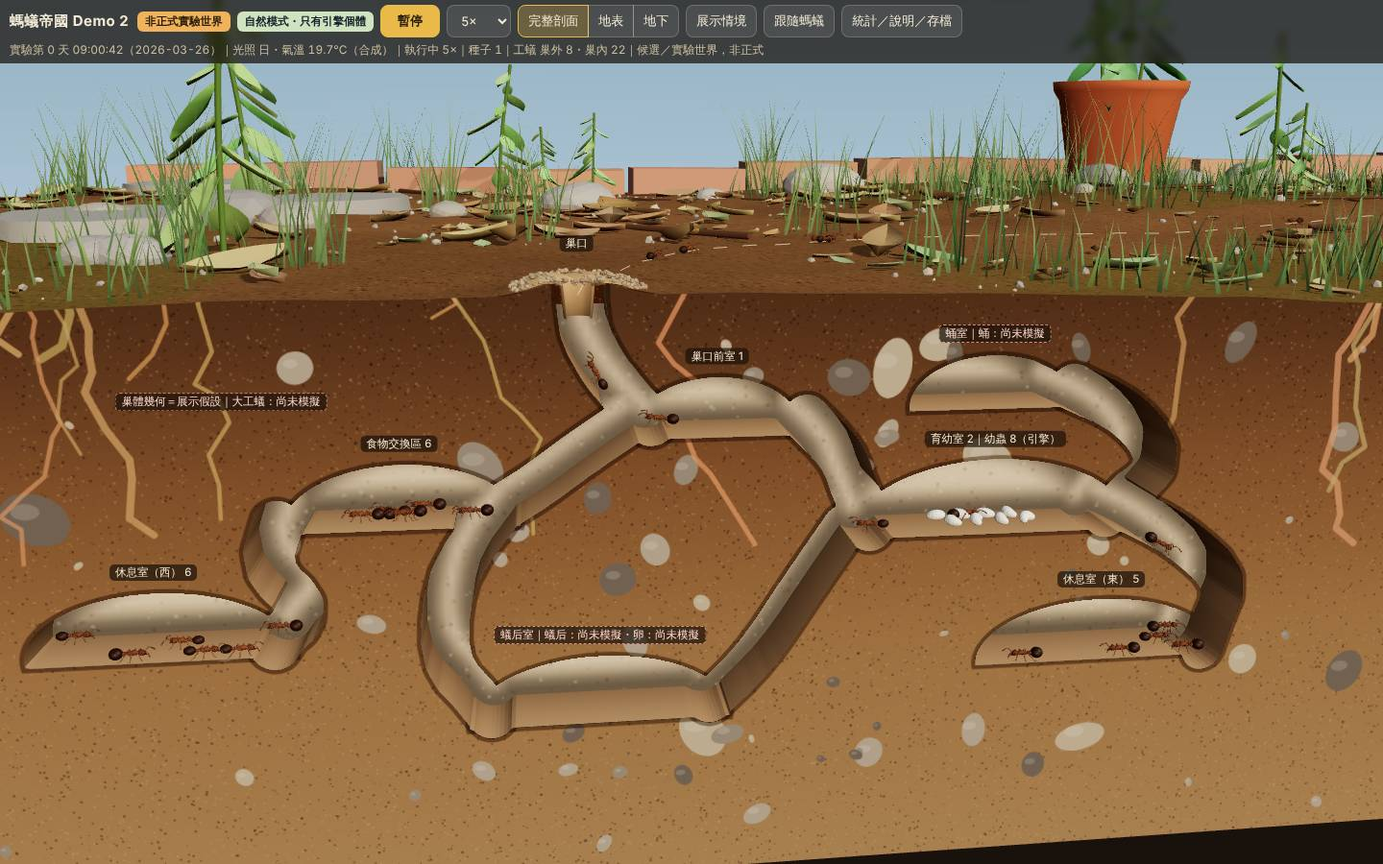
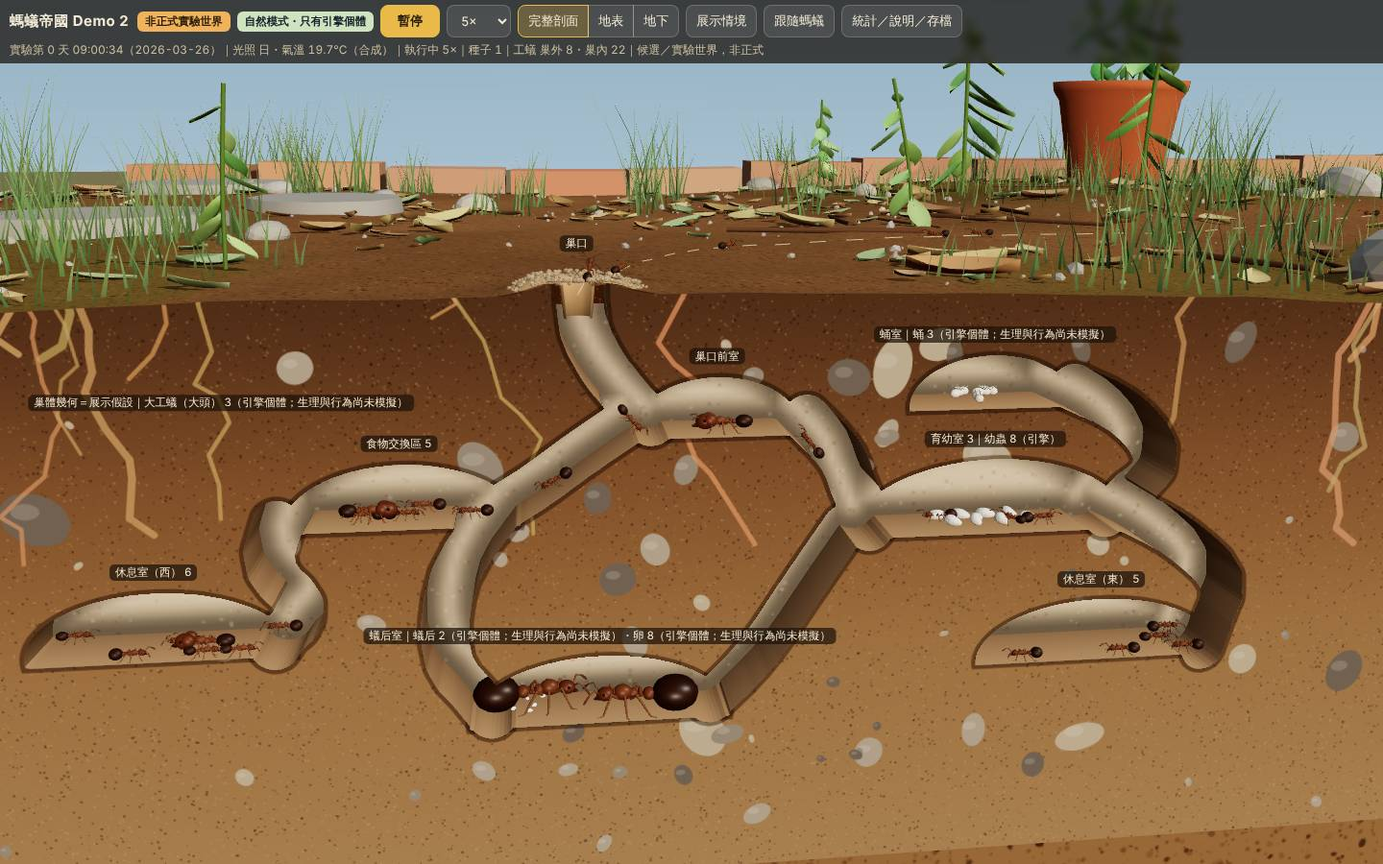
Demo 2: candidate colony world by default (engine queens / majors / eggs / pupae), portrait framing, soil wall
- new Demo worlds are 'p0a2-colony' through the real Worker (protocol guard isP0a2ColonyFrame); ?world=p0a2 keeps the
  plain world; saved colony worlds list and re-open
- engine colony individuals: static in their chamber (展示假設 position), selectable; the card lists each one's own
  not_simulated items and the candidate / assumed-count label; chamber labels say 引擎個體；生理與行為尚未模擬
- 展示情境 adds only what the engine lacks (no duplicate queens / majors)
- portrait: 完整剖面 / 地下 fit the whole nest; the soil wall continues below and beside the block (no empty void);
  labels wrap and stay on screen
- browser check: engine-queen selection, framing, ?world=p0a2 path, colony save / reload; screenshots regenerated

Claude-Session: https://claude.ai/code/session_01FN3JKHwWzwCMErcRAJv7Ef

diff --git a/web/src/demo2/main.ts b/web/src/demo2/main.ts
@@ -69,15 +69,10 @@ const sunTarget = new THREE.Object3D(); sunTarget.position.set(60, 0, -50);
 
 // ---------- world / display state ----------
 const client = new ExperimentWorkerClient();
-/** the opt-in candidate world with queens / majors / eggs / pupae as engine individuals (PR #263). Used when this
- *  Worker build knows it (feature check below), else the plain P0-A2 world. `?world=p0a2` forces the plain world. */
-const COLONY_KIND = 'p0a2-colony' as WorldKind;
-let worldKind: WorldKind = 'p0a2';
+/** New Demo worlds are the candidate world 'p0a2-colony' (queens / majors / eggs / pupae as ENGINE individuals, static;
+ *  docs/colony-candidate-world.md). `?world=p0a2` starts the plain P0-A2 world (those castes then 尚未模擬 / demo). */
+const worldKind: WorldKind = q.get('world') === 'p0a2' ? 'p0a2' : 'p0a2-colony';
 const PROBE_ID = 'exp-runtime-probe';
-async function detectWorldKind(): Promise<void> {
-  if (q.get('world') === 'p0a2') return;
-  try { const r = await client.init(PROBE_ID, 0, COLONY_KIND); if (r.type !== 'error') worldKind = COLONY_KIND; } catch { /* the plain world stays */ }
-}
 const isDemoWorld = (engine_version: string) => engine_version.startsWith('experiment-p0a2-');
 let session: ExperimentSession | null = null, tempMode = q.has('seed');
 let frame: P0a2FrameMsg | null = null, pacing: PacingMsg | null = null, frameAt = 0, lastT: number | null = null, tNow = 0, followedView: unknown = null;
@@ -140,7 +135,7 @@ function skyTint(bg: number) {
   if (bg === skyNow) return; skyNow = bg;
   if (!skyCanvas) { skyCanvas = document.createElement('canvas'); skyCanvas.width = 4; skyCanvas.height = 256; skyTex = new THREE.CanvasTexture(skyCanvas); skyTex.colorSpace = THREE.SRGBColorSpace; scene.background = skyTex; }
   const g2 = skyCanvas.getContext('2d')!, c = new THREE.Color(bg), hex = (k: THREE.Color) => `#${k.getHexString()}`, gr = g2.createLinearGradient(0, 0, 0, 256);
-  gr.addColorStop(0, hex(c.clone().multiplyScalar(0.86))); gr.addColorStop(0.42, hex(c.clone().lerp(new THREE.Color(0xffffff), 0.25))); gr.addColorStop(0.6, hex(c.clone().lerp(new THREE.Color(0x3a322a), 0.75))); gr.addColorStop(1, '#241e18');
+  gr.addColorStop(0, hex(c.clone().multiplyScalar(0.86))); gr.addColorStop(0.42, hex(c.clone().lerp(new THREE.Color(0xffffff), 0.25))); gr.addColorStop(0.6, hex(c.clone().lerp(new THREE.Color(0x7d7a58), 0.7))); gr.addColorStop(1, hex(c.clone().lerp(new THREE.Color(0x5f5a40), 0.85)));
   g2.fillStyle = gr; g2.fillRect(0, 0, 4, 256); skyTex.needsUpdate = true;
 }
 function applyQuality(qn: Quality) {
@@ -156,9 +151,12 @@ interface Cam { pos: THREE.Vector3; tgt: THREE.Vector3 }
 function viewCam(v: View): Cam {
   const aspect = innerWidth / Math.max(1, innerHeight), hfov = 2 * Math.atan(Math.tan((camera.fov * Math.PI) / 360) * aspect), fit = (halfW: number) => halfW / Math.tan(hfov / 2);
   const mk = (tx: number, ty: number, tz: number, el: number, az: number, dist: number): Cam => { const e = (el * Math.PI) / 180, a = (az * Math.PI) / 180; return { tgt: new THREE.Vector3(tx, ty, tz), pos: new THREE.Vector3(tx + Math.sin(a) * Math.cos(e) * dist, ty + Math.sin(e) * dist, tz + Math.cos(a) * Math.cos(e) * dist) }; };
-  if (v === 'surface') return narrow() ? mk(22, 0, -14, 50, -10, Math.min(260, fit(30))) : mk(48, 0, -26, 46, -12, Math.min(260, fit(84)));
-  if (v === 'under') return narrow() ? mk(5, -19, 0, 4, 0, Math.min(230, fit(24))) : mk(5, -17, 0, 3, 0, Math.min(260, fit(47)));
-  return narrow() ? mk(5, -15, 0, 12, -4, Math.min(240, fit(26))) : mk(8, -10, 0, 14, -7, Math.min(260, fit(50)));
+  // portrait: 完整剖面 and 地下 fit the whole nest (its bounds from the layout) into the width; the soil wall extends
+  // far below and beside the block (scene.ts), so no empty void shows under it
+  const nb = graph.bounds(0), cx = (nb.x0 + nb.x1) / 2, half = (nb.x1 - nb.x0) / 2 + 1, tall = aspect < 1, vh = (d: number) => d * Math.tan((camera.fov * Math.PI) / 360);
+  if (v === 'surface') return tall ? mk(22, 0, -14, 50, -10, Math.min(300, fit(34))) : mk(48, 0, -26, 46, -12, Math.min(260, fit(84)));
+  if (v === 'under') { const d = Math.min(640, fit(tall ? half : 47)); return tall ? mk(cx, -16 + vh(d) * 0.06, 0, 3, 0, d) : mk(5, -17, 0, 3, 0, d); }
+  { const d = Math.min(640, fit(tall ? half : 50)); return tall ? mk(cx, -14 + vh(d) * 0.26, 0, 12, -3, d) : mk(8, -10, 0, 14, -7, d); }
 }
 let tween: { from: Cam; to: Cam; t: number; dur: number } | null = null, userBusy = false, followAdjust = 0;
 function goView(v: View, instant = false) {
@@ -190,7 +188,7 @@ function stepCamera(dt: number) {
     }
   }
   // keep the view on the block
-  controls.target.x = Math.max(BLOCK.x0, Math.min(BLOCK.x1, controls.target.x)); controls.target.z = Math.max(BLOCK.z0, Math.min(BLOCK.z1 + 2, controls.target.z)); controls.target.y = Math.max(BLOCK.bottom, Math.min(40, controls.target.y));
+  controls.target.x = Math.max(BLOCK.x0, Math.min(BLOCK.x1, controls.target.x)); controls.target.z = Math.max(BLOCK.z0, Math.min(BLOCK.z1 + 2, controls.target.z)); controls.target.y = Math.max(BLOCK.bottom - 120, Math.min(40, controls.target.y));
   controls.update();
 }
 let followRealm: 'surface' | 'nest' | null = null;
@@ -305,7 +303,9 @@ function updateLabels() {
   if (!frame || !rost || !world) return;
   const w = ui.canvas.clientWidth, h = ui.canvas.clientHeight, items: { key: string; p: P3; text: string; cls: string; face: boolean }[] = [];
   const ns = (c: 'queen' | 'major' | 'egg' | 'pupa') => rost!.missing.includes(c), n = (c: 'queen' | 'major' | 'egg' | 'pupa') => rost!.counts[c];
-  const part = (c: 'queen' | 'egg' | 'pupa') => ns(c) ? (mode === 'demo' ? `${CASTE_LABEL[c]} ${n(c).demo}（示範資料）` : `${CASTE_LABEL[c]}：尚未模擬`) : `${CASTE_LABEL[c]} ${n(c).engine}（引擎）`;
+  // an engine individual of the candidate world exists in the engine, but its physiology / behaviour is 尚未模擬
+  const eng = (c: 'queen' | 'major' | 'egg' | 'pupa') => `${CASTE_LABEL[c]} ${n(c).engine}（引擎個體；生理與行為尚未模擬）`;
+  const part = (c: 'queen' | 'egg' | 'pupa') => ns(c) ? (mode === 'demo' ? `${CASTE_LABEL[c]} ${n(c).demo}（示範資料）` : `${CASTE_LABEL[c]}：尚未模擬`) : eng(c);
   for (const c of graph.layout.chambers) {
     const here = drawn.filter((a) => a.place === c.id).length; let text = `${c.label_zh}${here ? ` ${here}` : ''}`, cls = '';
     if (c.role === 'brood') text += `｜幼蟲 ${rost.counts.larva.engine}（引擎）`;
@@ -313,7 +313,7 @@ function updateLabels() {
     if (c.role === 'pupa') { text += `｜${part('pupa')}`; cls = ns('pupa') ? (mode === 'demo' ? 'demo' : 'ns') : ''; }
     items.push({ key: `ch-${c.id}`, p: { x: (c.x0 + c.x1) / 2, y: c.floor + c.height + 0.9, z: graph.faceZ }, text, cls, face: true });
   }
-  items.push({ key: 'face', p: { x: -24, y: -7, z: graph.faceZ }, text: `巢體幾何＝展示假設${ns('major') ? (mode === 'demo' ? `｜大工蟻 ${n('major').demo}（示範資料）` : '｜大工蟻：尚未模擬') : ''}`, cls: ns('major') && mode !== 'demo' ? 'ns' : mode === 'demo' ? 'demo' : '', face: true });
+  items.push({ key: 'face', p: { x: -24, y: -7, z: graph.faceZ }, text: `巢體幾何＝展示假設${ns('major') ? (mode === 'demo' ? `｜大工蟻 ${n('major').demo}（示範資料）` : '｜大工蟻：尚未模擬') : `｜${eng('major')}`}`, cls: ns('major') && mode !== 'demo' ? 'ns' : mode === 'demo' ? 'demo' : '', face: true });
   items.push({ key: 'entrance', p: { x: 0, y: ground(0, 0) + 3.2, z: 0 }, text: '巢口', cls: '', face: false });
   items.push({ key: 'host', p: world.anchors.hostPlant, text: `蜜露來源（引擎）存量 ${frame.source.stock_portions.toFixed(1)} 份｜寄主植物外形＝裝飾`, cls: '', face: false });
   if (mode === 'demo') { items.push({ key: 'nectar', p: world.anchors.nectar, text: DEMO_FOOD_PROPS[0].label_zh, cls: 'demo', face: false }); items.push({ key: 'insect', p: world.anchors.insect, text: DEMO_FOOD_PROPS[1].label_zh, cls: 'demo', face: false }); }
@@ -326,10 +326,11 @@ function updateLabels() {
   for (const it of items) {
     let el = labelEls.get(it.key); if (!el) { el = document.createElement('div'); ui.labels.appendChild(el); labelEls.set(it.key, el); }
     seen.add(it.key);
-    const s = V.set(it.p.x, it.p.y, it.p.z).project(camera), on = s.z < 1 && Math.abs(s.x) < 1.05 && Math.abs(s.y) < 1.05 && (!it.face || (frontal > 0.45 && dist < 330)) && (it.cls === 'pin' || dist < 420);
+    const s = V.set(it.p.x, it.p.y, it.p.z).project(camera), on = s.z < 1 && Math.abs(s.x) < 1.05 && Math.abs(s.y) < 1.05 && (!it.face || (frontal > 0.45 && dist < 700)) && (it.cls === 'pin' || dist < 700);
     el.className = `lbl ${it.cls}`; if (el.textContent !== it.text) el.textContent = it.text;
     el.hidden = !on; if (!on) continue;
-    el.style.transform = `translate(${((s.x + 1) / 2) * w}px, ${((1 - s.y) / 2) * h}px) translate(-50%, -100%)`;
+    const half = Math.min(el.offsetWidth / 2, w / 2 - 2), lx = it.cls === 'pin' ? ((s.x + 1) / 2) * w : Math.max(half + 2, Math.min(w - half - 2, ((s.x + 1) / 2) * w)); // labels stay inside the screen
+    el.style.transform = `translate(${lx}px, ${((1 - s.y) / 2) * h}px) translate(-50%, -100%)`;
   }
   for (const [k, el] of labelEls) if (!seen.has(k)) el.hidden = true;
 }
@@ -349,7 +350,7 @@ function renderStats() {
   if (!frame || !rost) return;
   const by = new Map<string, number>(); for (const w of frame.workers) by.set(w.state, (by.get(w.state) ?? 0) + 1);
   const places = new Map<string, number>(); for (const a of drawn) { const k = a.realm === 'surface' ? a.place : a.place === 'tunnel' ? '通道' : graph.chamber(a.place).label_zh; places.set(k, (places.get(k) ?? 0) + 1); }
-  const row = (c: typeof CASTES[number]) => { const k = rost!.counts[c], miss = rost!.missing.includes(c); return `<tr><td>${CASTE_LABEL[c]}</td><td class="n">${miss ? '<span class="tag none">尚未模擬</span>' : k.engine}</td><td class="n">${mode === 'demo' ? k.demo : '—'}</td></tr>`; };
+  const row = (c: typeof CASTES[number]) => { const k = rost!.counts[c], miss = rost!.missing.includes(c); return `<tr><td>${CASTE_LABEL[c]}${!miss && colonyOf(frame!) && c !== 'minor' && c !== 'larva' ? '<br><span class="muted">候選世界・數量為假設；生理與行為尚未模擬</span>' : ''}</td><td class="n">${miss ? '<span class="tag none">尚未模擬</span>' : k.engine}</td><td class="n">${mode === 'demo' ? k.demo : '—'}</td></tr>`; };
   const st = stage.stats;
   ui.stats.innerHTML = `<h2>生命階段與階級</h2><table><tr><th></th><th class="n">引擎</th><th class="n">示範資料</th></tr>${CASTES.map(row).join('')}</table>
 <div class="muted">${mode === 'demo' ? `${DEMO_BADGE}：示範個體只在本模式顯示，${DEMO_ROUTINE_LABEL}；不存檔、不影響引擎。` : `${NATURAL_BADGE}：引擎沒有的階級不畫，巢室標示「尚未模擬」。`}</div>
@@ -399,7 +400,7 @@ function renderCard() {
     const d = st.ind, ch = st.chamber ? graph.chamber(st.chamber).label_zh : '';
     html = d.source === 'engine' && d.caste === 'larva'
       ? `<b>${esc(d.id)}</b>　<span class="tag engine">引擎個體</span>${CASTE_LABEL[d.caste]}<br>腸道量：${((d.fill ?? 0) * 100).toFixed(0)}%（引擎）${stage.fedNow(d.id, tNow) ? '　正在被餵食（引擎事件；畫面演出）' : ''}<br>位置：${esc(ch)}（展示假設）<br><span class="muted">幼蟲只被餵食與代謝；發育、化蛹、羽化尚未模擬</span>`
-      : d.notes ? `<b>${esc(d.id)}</b>　<span class="tag engine">引擎個體</span>${CASTE_LABEL[d.caste]}<br>狀態：${esc(d.state ?? '')}<br>位置：${esc(ch)}（展示假設；引擎沒有巢內座標）<br><span class="muted">此個體尚未模擬的項目：${d.notes.map(esc).join('；') || '—'}｜原地微動作只是畫面</span>`
+      : d.notes ? `<b>${esc(d.id)}</b>　<span class="tag engine">引擎個體</span><span class="tag assume">候選世界・數量為情境假設</span>${CASTE_LABEL[d.caste]}<br>狀態：${esc(d.state ?? '')}<br>位置：${esc(ch)}（展示假設；引擎沒有巢內座標）<br>此個體<b>尚未模擬</b>的項目（${d.notes.length}）：<ul style="margin:2px 0;padding-left:18px">${d.notes.map((x) => `<li>${esc(x)}</li>`).join('')}</ul><span class="muted">原地微動作只是畫面</span>`
       : `<b>${esc(d.id)}</b>　<span class="tag demo">示範資料</span>${CASTE_LABEL[d.caste]}<br>動作：${esc(d.state ?? '')}<br>位置：${esc(ch)}（展示假設）<br><span class="muted">${DEMO_BADGE}：引擎尚未模擬這個階級；此個體不存檔、不影響任何引擎個體</span>`;
   } else { ui.card.hidden = true; return; }
   const canFollow = !!(a && w);
@@ -451,7 +452,8 @@ async function afterWorldReady(startAt: number | null) {
 }
 function renderWorldInfo() {
   const cur = session?.current;
-  ui.worldInfo.innerHTML = frame ? `${colonyOf(frame) ? '候選世界 p0a2-colony：蟻后、大工蟻、卵、蛹是引擎個體（靜態；不進食、不產卵、不發育、不移動）' : `P0-A2 世界：只有小工蟻與幼蟲${worldKind === 'p0a2' && q.get('world') !== 'p0a2' ? '（這個 Worker 版本沒有候選世界 p0a2-colony）' : ''}`}<br>世界 ${esc(frame.world_id)}｜種子 ${frame.seed}｜規則指紋 ${esc(frame.rules_fingerprint.slice(0, 12))}…<br>${tempMode ? '臨時世界（網址帶 seed：不存檔）' : cur ? `「${esc(cur.name)}」｜${cur.writer ? '本分頁可存檔' : esc(cur.readOnlyReason ?? '唯讀')}｜${esc(cur.verification)}` : '未連結存檔'}` : '';
+  const col = frame ? colonyOf(frame) : null;
+  ui.worldInfo.innerHTML = frame ? `${col ? `候選世界 p0a2-colony（${esc(col.status_zh)}）：蟻后 ${col.queens.length}、大工蟻 ${col.majors.length}、卵 ${col.eggs.length}、蛹 ${col.pupae.length} 是引擎個體，數量全部是情境假設（情境 ${esc(col.scenario.id)}）；牠們在引擎中不進食、不產卵、不發育、不移動（尚未模擬）` : 'P0-A2 世界：只有小工蟻與幼蟲（蟻后、大工蟻、卵、蛹尚未模擬）'}<br>世界 ${esc(frame.world_id)}｜種子 ${frame.seed}｜規則指紋 ${esc(frame.rules_fingerprint.slice(0, 12))}…<br>${tempMode ? '臨時世界（網址帶 seed：不存檔）' : cur ? `「${esc(cur.name)}」｜${cur.writer ? '本分頁可存檔' : esc(cur.readOnlyReason ?? '唯讀')}｜${esc(cur.verification)}` : '未連結存檔'}` : '';
   ui.saveBtn.disabled = tempMode || !cur?.writer;
 }
 function renderSaveStatus() {
@@ -501,7 +503,7 @@ async function main() {
   backend = `WebGL 2（three r${THREE.REVISION} WebGLRenderer）｜WebGPU：此瀏覽器${'gpu' in navigator ? '有提供' : '未提供'}，本頁目前不使用（見 docs/demo2.md）`;
   ui.canvas.addEventListener('webglcontextlost', (e) => { e.preventDefault(); toast('繪圖環境遺失（WebGL context lost）：請重新整理頁面；模擬與存檔不受影響', 10000); });
   controls = new OrbitControls(camera, ui.canvas);
-  controls.enableDamping = true; controls.dampingFactor = 0.1; controls.screenSpacePanning = true; controls.minDistance = 4; controls.maxDistance = 420;
+  controls.enableDamping = true; controls.dampingFactor = 0.1; controls.screenSpacePanning = true; controls.minDistance = 4; controls.maxDistance = 700;
   controls.minPolarAngle = 0.12; controls.maxPolarAngle = Math.PI * 0.53; controls.minAzimuthAngle = -1.15; controls.maxAzimuthAngle = 1.15; controls.zoomToCursor = true;
   controls.mouseButtons = { LEFT: THREE.MOUSE.PAN, MIDDLE: THREE.MOUSE.DOLLY, RIGHT: THREE.MOUSE.ROTATE }; controls.touches = { ONE: THREE.TOUCH.PAN, TWO: THREE.TOUCH.DOLLY_ROTATE };
   controls.addEventListener('start', () => { userBusy = true; tween = null; }); controls.addEventListener('end', () => { userBusy = false; });
@@ -520,7 +522,6 @@ async function main() {
   ui.speed.innerHTML = SPEEDS.map((s) => `<option value="${s}">${s}×</option>`).join(''); ui.seedIn.value = String(DEFAULT_SEED);
   goView('full', true); requestAnimationFrame((t) => { lastNow = t; requestAnimationFrame(tick); });
 
-  await detectWorldKind();
   if (tempMode) { // ?seed=N: a temporary, unsaved world (tests and quick looks)
     const seed = Number(q.get('seed')), r = await client.init(`exp-demo2-${seed}`, seed, worldKind);
     if (r.type === 'error') { fatal(`無法建立實驗世界：${esc(r.code)} ${esc(r.message)}`); return; }
@@ -585,6 +586,8 @@ const hooks: Record<string, unknown> = {
   select: (id: string | null) => select(id), follow: (id: string | null) => setFollow(id), setRunning: (on: boolean) => setRunning(on), setSpeed: (s: number) => setSpeed(s),
   setView: (v: View, instant = true) => goView(v, instant), setMode: (m: Mode) => setMode(m), setQuality: (k: Quality) => applyQuality(k), openSide: (t: string | null) => openSide(t),
   setRender: (on: boolean) => { renderOn = on; },
+  /** do all chamber ends and tops project inside the canvas (below the top bar)? */
+  nestOnScreen: () => { const w = ui.canvas.clientWidth, h = ui.canvas.clientHeight, top = $('top').getBoundingClientRect().bottom; let x0 = Infinity, x1 = -Infinity, y0 = Infinity, y1 = -Infinity; for (const c of graph.layout.chambers) for (const [x, y] of [[c.x0, c.floor], [c.x1, c.floor], [(c.x0 + c.x1) / 2, c.floor + c.height]]) { const p = new THREE.Vector3(x, y, graph.faceZ).project(camera), sx = ((p.x + 1) / 2) * w, sy = ((1 - p.y) / 2) * h; x0 = Math.min(x0, sx); x1 = Math.max(x1, sx); y0 = Math.min(y0, sy); y1 = Math.max(y1, sy); } return { inside: x0 >= 0 && x1 <= w && y0 >= top && y1 <= h, box: [Math.round(x0), Math.round(y0), Math.round(x1), Math.round(y1)], w, h, top: Math.round(top) }; },
   /** scheduling only: run the world to t (paused pages then show exactly the frame's instant) */
   stepUntil: async (t: number) => { await client.stepUntil(t); },
   /** the drawn workers for the latest frame at ITS instant (a paused page shows exactly this; no wait for a repaint) */

diff --git a/web/src/demo2/scene.ts b/web/src/demo2/scene.ts
@@ -133,8 +133,18 @@ export function buildScene(o: SceneOptions): Scene2 {
   group.add(new THREE.Mesh(strip(xs.map((x) => ({ x, z: BLOCK.z0 })), (p) => (p.x - BLOCK.x0) / W), sideMat));
   group.add(new THREE.Mesh(strip(zs.map((z) => ({ x: BLOCK.x0, z })), (p) => (p.z - BLOCK.z0) / W), sideMat));
   group.add(new THREE.Mesh(strip(zs.map((z) => ({ x: BLOCK.x1, z })), (p) => (p.z - BLOCK.z0) / W), sideMat));
-  // display stand (decoration): a soft dark table under the block, so a low camera never sees an empty void
-  group.add(new THREE.Mesh(new THREE.CircleGeometry(520, 48).rotateX(-Math.PI / 2).translate((BLOCK.x0 + BLOCK.x1) / 2, BLOCK.bottom - 0.4, (BLOCK.z0 + BLOCK.z1) / 2), new THREE.MeshBasicMaterial({ color: col('#2b241d') })));
+  // the soil wall continues below and beside the block (decoration): a tall or wide view never shows an empty void
+  { const pos: number[] = [], colr: number[] = [], idx: number[] = [], X0 = BLOCK.x0 - 900, X1 = BLOCK.x1 + 900, Y0 = BLOCK.bottom - 700, stops: [number, string][] = [[FACE_TOP, '#4b3525'], [-2, '#5e422c'], [-12, '#7b5839'], [-26, '#93714c'], [BLOCK.bottom, '#9c7d59'], [Y0, '#6f5539']];
+    const cAt = (y: number) => { for (let i = 0; i < stops.length - 1; i++) if (y <= stops[i][0] && y >= stops[i + 1][0]) return col(stops[i][1]).lerp(col(stops[i + 1][1]), (stops[i][0] - y) / (stops[i][0] - stops[i + 1][0])); return col(stops[0][1]); };
+    const rect = (xa: number, xb: number, ys: number[], topA: number, topB: number) => { ys.forEach((y, i) => { const b0 = pos.length / 3, ya = i === 0 ? topA : y, yb = i === 0 ? topB : y, c = cAt(y); pos.push(xa, ya, faceZ - 0.03, xb, yb, faceZ - 0.03); colr.push(c.r, c.g, c.b, c.r, c.g, c.b); if (i > 0) idx.push(b0 - 2, b0, b0 - 1, b0 - 1, b0, b0 + 1); }); };
+    const side = [0, -2, -12, -26, BLOCK.bottom];
+    rect(X0, BLOCK.x0, side, ground(BLOCK.x0, faceZ), ground(BLOCK.x0, faceZ)); rect(BLOCK.x1, X1, side, ground(BLOCK.x1, faceZ), ground(BLOCK.x1, faceZ)); rect(X0, X1, [BLOCK.bottom, BLOCK.bottom - 60, Y0], BLOCK.bottom, BLOCK.bottom);
+    const uv: number[] = []; for (let i = 0; i < pos.length; i += 3) uv.push(pos[i] / 36, pos[i + 1] / 36);
+    const eg = new THREE.BufferGeometry(); eg.setAttribute('uv', new THREE.Float32BufferAttribute(uv, 2)); eg.setAttribute('position', new THREE.Float32BufferAttribute(pos, 3)); eg.setAttribute('color', new THREE.Float32BufferAttribute(colr, 3)); eg.setIndex(idx); eg.computeVertexNormals();
+    const wallTex = soilGrain(rnd, '#e9dccb', 1800); wallTex.repeat.set(1, 1);
+    const em = new THREE.Mesh(eg, lam({ map: wallTex, vertexColors: true, side: THREE.DoubleSide })); group.add(em); }
+  // display stand (decoration): a table under and behind the block (never in front of the soil wall)
+  group.add(new THREE.Mesh(new THREE.PlaneGeometry(2400, 1400).rotateX(-Math.PI / 2).translate((BLOCK.x0 + BLOCK.x1) / 2, BLOCK.bottom - 0.4, faceZ - 0.1 - 700), new THREE.MeshLambertMaterial({ color: col('#8a8460') })));
 
   // ---- cavity: back wall + walls (marching squares over the same sdf the routing and the mask use) ----
   const B = g.bounds(1);

diff --git a/web/src/demo2/feed.ts b/web/src/demo2/feed.ts
@@ -12,11 +12,10 @@
  * Engine roster of the opt-in candidate world 'p0a2-colony' (PR #263, docs/colony-candidate-world.md): its frame is a
  * P0-A2 frame that also carries `colony` with queens / majors / eggs / pupae as ENGINE individuals (static: none of them
  * eats, lays, develops or moves in the engine; each lists what is 尚未模擬). When `frame.colony` is present those castes
- * come from the engine (ENGINE_CASTE_READERS) and the demo provider stops supplying them; without it (plain P0-A2, or a
- * Worker build that does not know the kind) they stay 「尚未模擬」 / demo. The colony part is read structurally (this
- * module does not depend on the protocol file of that PR).
+ * come from the engine (ENGINE_CASTE_READERS, protocol guard isP0a2ColonyFrame) and the demo provider stops supplying
+ * them; without it (plain P0-A2, `?world=p0a2`) they stay 「尚未模擬」 / demo.
  */
-import type { P0a2FrameMsg } from '../experimental/worker-protocol.ts';
+import { isP0a2ColonyFrame, type P0a2ColonyMsg, type P0a2FrameMsg } from '../experimental/worker-protocol.ts';
 import { hash32 } from '../game-model.ts';
 
 export type Caste = 'minor' | 'major' | 'queen' | 'egg' | 'larva' | 'pupa';
@@ -40,14 +39,10 @@ export interface Individual {
 }
 export interface ColonyFeed { readonly source: DataSource; readonly label_zh: string; individuals(): Individual[] }
 
-/** the fields of the candidate world's colony roster this page reads (subset of P0a2ColonyMsg, PR #263) */
-export interface ColonyItem { id: string; state?: string; alive?: boolean; not_simulated?: string[] }
-export interface ColonyPart { world_kind: string; status_zh?: string; queens: ColonyItem[]; majors: ColonyItem[]; eggs: ColonyItem[]; pupae: ColonyItem[]; not_simulated_fields?: Record<string, string>; assumptions?: Record<string, unknown> }
-/** the colony roster of a frame, or null (plain P0-A2 world) */
-export function colonyOf(f: P0a2FrameMsg): ColonyPart | null {
-  const c = (f as unknown as { colony?: ColonyPart }).colony;
-  return c && c.world_kind === 'p0a2-colony' && Array.isArray(c.queens) && Array.isArray(c.majors) && Array.isArray(c.eggs) && Array.isArray(c.pupae) ? c : null;
-}
+/** the colony roster of a frame (candidate world 'p0a2-colony'), or null (plain P0-A2 world) */
+export function colonyOf(f: P0a2FrameMsg): P0a2ColonyMsg | null { return isP0a2ColonyFrame(f) ? f.colony : null; }
+/** label of an engine individual of the candidate world: it exists in the engine; its physiology and behaviour do not */
+export const COLONY_ENGINE_NOTE = '引擎個體（候選世界；數量為情境假設）｜生理與行為尚未模擬';
 const STATIC_STATE = '在巢內（引擎；不進食、不產卵、不發育、不移動：尚未模擬）';
 const fromColony = (f: P0a2FrameMsg, key: 'queens' | 'majors' | 'eggs' | 'pupae', caste: Caste): Individual[] | null => {
   const c = colonyOf(f); if (!c) return null;

diff --git a/web/demo2.html b/web/demo2.html
@@ -47,6 +47,7 @@
   #sheetBtn { display: none; }
   [hidden] { display: none !important; }
   @media (max-width: 760px) {
+    .lbl { white-space: normal; max-width: 46vw; font-size: 10.5px; line-height: 1.25; text-align: center; padding: 1px 4px; }
     h1 { font-size: 13.5px; } .chip { font-size: 10.5px; padding: 2px 6px; } #hud { font-size: 11px; white-space: normal; max-height: 2.8em; }
     select, button, a.btn { min-height: 36px; padding: 0 8px; font-size: 12.5px; }
 

diff --git a/docs/demo2.md b/docs/demo2.md
@@ -16,6 +16,7 @@ npm ci && npm run web:build && node cli/web-serve.ts
 | `demo2.html` | 接續這個瀏覽器上次玩的 Demo 世界（本機存檔）；沒有就建立新世界（種子 20261113，Owner #202 的可重現標識，不是挑選的種子），快轉到 09:00 開始 |
 | `demo2.html?new=1` | 一律建立新世界 |
 | `demo2.html?seed=1` | 不存檔的臨時世界（測試、快速看） |
+| `demo2.html?world=p0a2` | 用原本的 P0-A2 世界（沒有蟻后／大工蟻／卵／蛹的引擎個體） |
 | 其他參數 | `quality=high|medium|low`（固定畫質）、`speed=`、`mode=demo`、`view=full|surface|under`、`mag=`（螞蟻放大倍數）、`t=`（新世界快轉到的秒數）、`autostart=0` |
 
 操作：滑鼠左鍵拖曳＝平移、右鍵拖曳＝旋轉、滾輪＝縮放；觸控單指＝平移、雙指＝縮放／旋轉；點一下螞蟻＝選取。
@@ -30,8 +31,8 @@ npm ci && npm run web:build && node cli/web-serve.ts
 - **引擎事件上畫面**：回巢工蟻走到引擎記錄「有收到食物」的同伴旁頭對頭（交哺）；育幼工蟻走到引擎記錄「接觸／餵食」的幼蟲旁（被餵的幼蟲會亮一下）。
 - **介面**：播放／暫停、速度（只改 Worker 排程）、視角「完整剖面／地表／地下」、點選個體資訊卡、跟隨螞蟻、統計（行為狀態、生命階段，引擎與示範資料分欄）、資料分類圖例、尚未模擬清單（取自此世界的存檔中繼資料）、存檔／載入／匯出／匯入、重新開始（顯示種子）、重設展示情境、FPS 與繪圖後端。
 - **兩種模式**：
-  - **自然模式**（預設）：只畫引擎個體——30 隻小工蟻、8 隻幼蟲。蟻后室、蛹室是空的並標「尚未模擬」；大工蟻標「尚未模擬」。
-  - **展示情境・示範資料**：另外畫出蟻后 2（Owner #202 暫定 2～3）、大工蟻 4、卵 36、蛹 9，以及兩個不可取食的食物道具（花蜜、昆蟲屍體）。全部標「示範資料」、固定種子可重現、只有原地微動作；不存檔、不送進 Worker；30 隻小工蟻與 8 隻幼蟲在兩種模式下完全相同（都由引擎驅動）。
+  - **自然模式**（預設）：只畫引擎個體——30 隻小工蟻、8 隻幼蟲，加上候選世界的蟻后 2～3、大工蟻、卵 8、蛹 3（引擎個體、數量為情境假設、生理與行為尚未模擬）。用 `?world=p0a2` 時蟻后室、蛹室是空的並標「尚未模擬」。
+  - **展示情境・示範資料**：候選世界下只多出兩個不可取食的食物道具；`?world=p0a2` 下另外畫出蟻后 2（Owner #202 暫定 2～3）、大工蟻 4、卵 36、蛹 9，以及兩個不可取食的食物道具（花蜜、昆蟲屍體）。全部標「示範資料」、固定種子可重現、只有原地微動作；不存檔、不送進 Worker；30 隻小工蟻與 8 隻幼蟲在兩種模式下完全相同（都由引擎驅動）。
 
 ## 畫面上的資料分類
 
@@ -85,7 +86,7 @@ npm ci && npm run web:build && node cli/web-serve.ts
 - 模擬只在實驗 Worker 內；頁面經 `web/src/experimental/worker-client.ts` 只送排程（init／step_until／start／pause／resume／set_speed）與觀察（follow／snapshot）指令，載入存檔只經 SAVE-2 session 的 restore。繪圖、縮放、視角、跟隨、畫質、模式切換都不會送進 Worker。
 - 存檔沿用實驗頁的 SAVE-2 流程（`ExperimentSession`＋`save-store.ts`，資料庫前綴 `antempire-experiment-`），沒有新增儲存路徑；只保存 Worker 在事件邊界產生的引擎快照。示範資料、鏡頭、模式不存。存檔狀態只會是「本機可玩／完整性檢查通過」，未經 Node 重算驗證。
 - 資料層 `web/src/demo2/feed.ts`：一個介面 `ColonyFeed`，兩個提供者——`engineFeed(frame)`（引擎）與 `demoFeed(seed, castes)`（示範）。
-- **候選世界 `p0a2-colony`（PR #263，另一張規則 PR）**：它的 frame 仍是 P0-A2 frame，另外帶 `colony`（蟻后、大工蟻、卵、蛹是**引擎個體**，但在引擎中不進食、不產卵、不發育、不移動，各自列出尚未模擬的項目）。本頁開啟時先做功能檢查（向 Worker 要求建立這種世界）：Worker 認得就用它當新世界的種類，蟻后／大工蟻／卵／蛹改由引擎提供（靜態放在對應巢室，位置＝展示假設，只有原地微動作，可點選，資訊卡列出該個體的「尚未模擬」項目），展示情境只補引擎仍沒有的東西（目前剩食物道具）；Worker 不認得（本分支目前如此）就退回 P0-A2＋標示的示範資料。`?world=p0a2` 可強制用 P0-A2。讀取方式是結構式的（不依賴該 PR 的 protocol 檔），測試以合成的 `colony` frame 涵蓋；瀏覽器測試會依 Worker 實際回報的世界種類檢查對應的數量與標示。
+- **候選世界 `p0a2-colony`（#263，已合併；`docs/colony-candidate-world.md`）是 Demo 2 新世界的預設種類**。它的 frame 仍是 P0-A2 frame，另外帶 `colony`：蟻后、大工蟻、卵、蛹是**引擎個體**（數量全部是情境假設），但在引擎中不進食、不產卵、不發育、不移動。本頁以 protocol 的 `isP0a2ColonyFrame` 讀取：這些個體靜態放在對應巢室（位置＝展示假設，只有原地微動作），可點選，資訊卡標「引擎個體」「候選世界・數量為情境假設」並逐項列出該個體 `not_simulated` 的項目；巢室標籤寫「蟻后 N（引擎個體；生理與行為尚未模擬）」，不寫成已模擬。展示情境此時只補引擎仍沒有的東西（食物道具），不會重複出現示範蟻后／大工蟻。存檔清單會列出並可重新開啟候選世界的存檔。`?world=p0a2` 改用原本的 P0-A2 世界：那些階級在自然模式標「尚未模擬」，在展示情境以示範資料顯示。
 - 大工蟻、蟻后要在巢內移動時（引擎提供行為後），再把它們接進 `stage.ts`（目前只有小工蟻走動）。
 
 ## 繪圖後端的決定：目前 WebGL 2，WebGPU 的路
@@ -120,13 +121,17 @@ npm ci && npm run web:build && node cli/web-serve.ts
 - `tests/web-demo2.test.ts`（BLOCKING，Node）：幾何標示與拒絕未標示的幾何；圖連通；路徑不離開圖、在巢腔內；以真實 P0-A2 世界（2 個種子）檢查顯示導演——永遠同樣 30 個 ID、巢內畫點都在巢腔內、穿過巢口兩個方向都連續、`to_entrance` 結束時剛好在巢口、休息者不平移、顯示走動時間有上限、相同輸入相同輸出、不改變世界（payload 雜湊）；`ColonyFeed` 的引擎／示範分離；步態；原始碼掃描（不匯入 engine／Worker／cli、沒有 `Math.random`、只送排程／觀察指令、沒有 CDN、標示齊全）。
 - `tests/browser/demo2.check.cjs`（Playwright，桌面 1440×900＋Pixel 7 觸控；CI 的瀏覽器工作）：載入無錯誤、地表與地下都有螞蟻、自然模式與展示情境的標示與數量、視角切換、點選／輕觸、跟隨、用 `step_until` 跟一隻工蟻走完整趟（同一 ID、連續、不進土）、暫停凍結、存檔→重新載入→繼續、手機無橫向捲動。
 
+### 手機直向的取景
+
+「完整剖面」與「地下」在直向螢幕依巢體範圍（幾何的 bounds）對寬度取景，整個巢都在畫面內（瀏覽器測試檢查每個巢室的兩端與頂端都投影在畫布內）。土壤剖面向下、向兩側延伸（裝飾），所以直向或俯視時土塊下方不會露出空的背景。
+
 ## 截圖與影片
 
-`docs/vis/demo2/`：`demo2-desktop-full.jpg`（完整剖面）、`-surface.jpg`（地表）、`-underground.jpg`（地下）、`-follow.jpg`（跟隨近景）、`-scenario.jpg`／`-scenario-queens.jpg`（展示情境）、`-panel.jpg`、`-saves.jpg`、`demo2-pixel7-*.jpg`（手機）、`demo2-desktop-follow.webm`（短片）。全部由 `tests/browser/demo2.check.cjs` 產生（軟體繪圖）。
+`docs/vis/demo2/`：`demo2-desktop-full.jpg`（完整剖面）、`-surface.jpg`（地表）、`-underground.jpg`（地下）、`-follow.jpg`（跟隨近景）、`-engine-queen.jpg`（點選引擎蟻后、資訊卡列出尚未模擬項目）、`-scenario.jpg`／`-scenario-queens.jpg`（展示情境）、`-panel.jpg`、`-saves.jpg`、`demo2-pixel7-*.jpg`（手機）、`demo2-desktop-follow.webm`（短片）。全部由 `tests/browser/demo2.check.cjs` 產生（軟體繪圖）。
 
 ## 還沒做到的（對照 Owner 需求）
 
-- 在本分支的 Worker 上，大工蟻、蟻后、卵、蛹還不是引擎個體：自然模式標「尚未模擬」。PR #263 合併後本頁會自動改用候選世界的引擎個體（見上）；那些個體在引擎中仍是靜態的。
+- 蟻后、大工蟻、卵、蛹在候選世界是引擎個體，但引擎還沒有牠們的生理與行為：畫面上是靜態的（不走動、不產卵、不發育）。
 - 交哺只演出一部分（受巢內路徑與引擎期限限制）；交哺雙方沒有口器對接的細部動畫，只有頭對頭與觸角前伸的姿勢。
 - 固體食物搬運姿勢沒有做（引擎沒有固體食物）。
 - 搜尋成功時畫面會從搜尋區跳到食源（引擎限制，已列出）。
